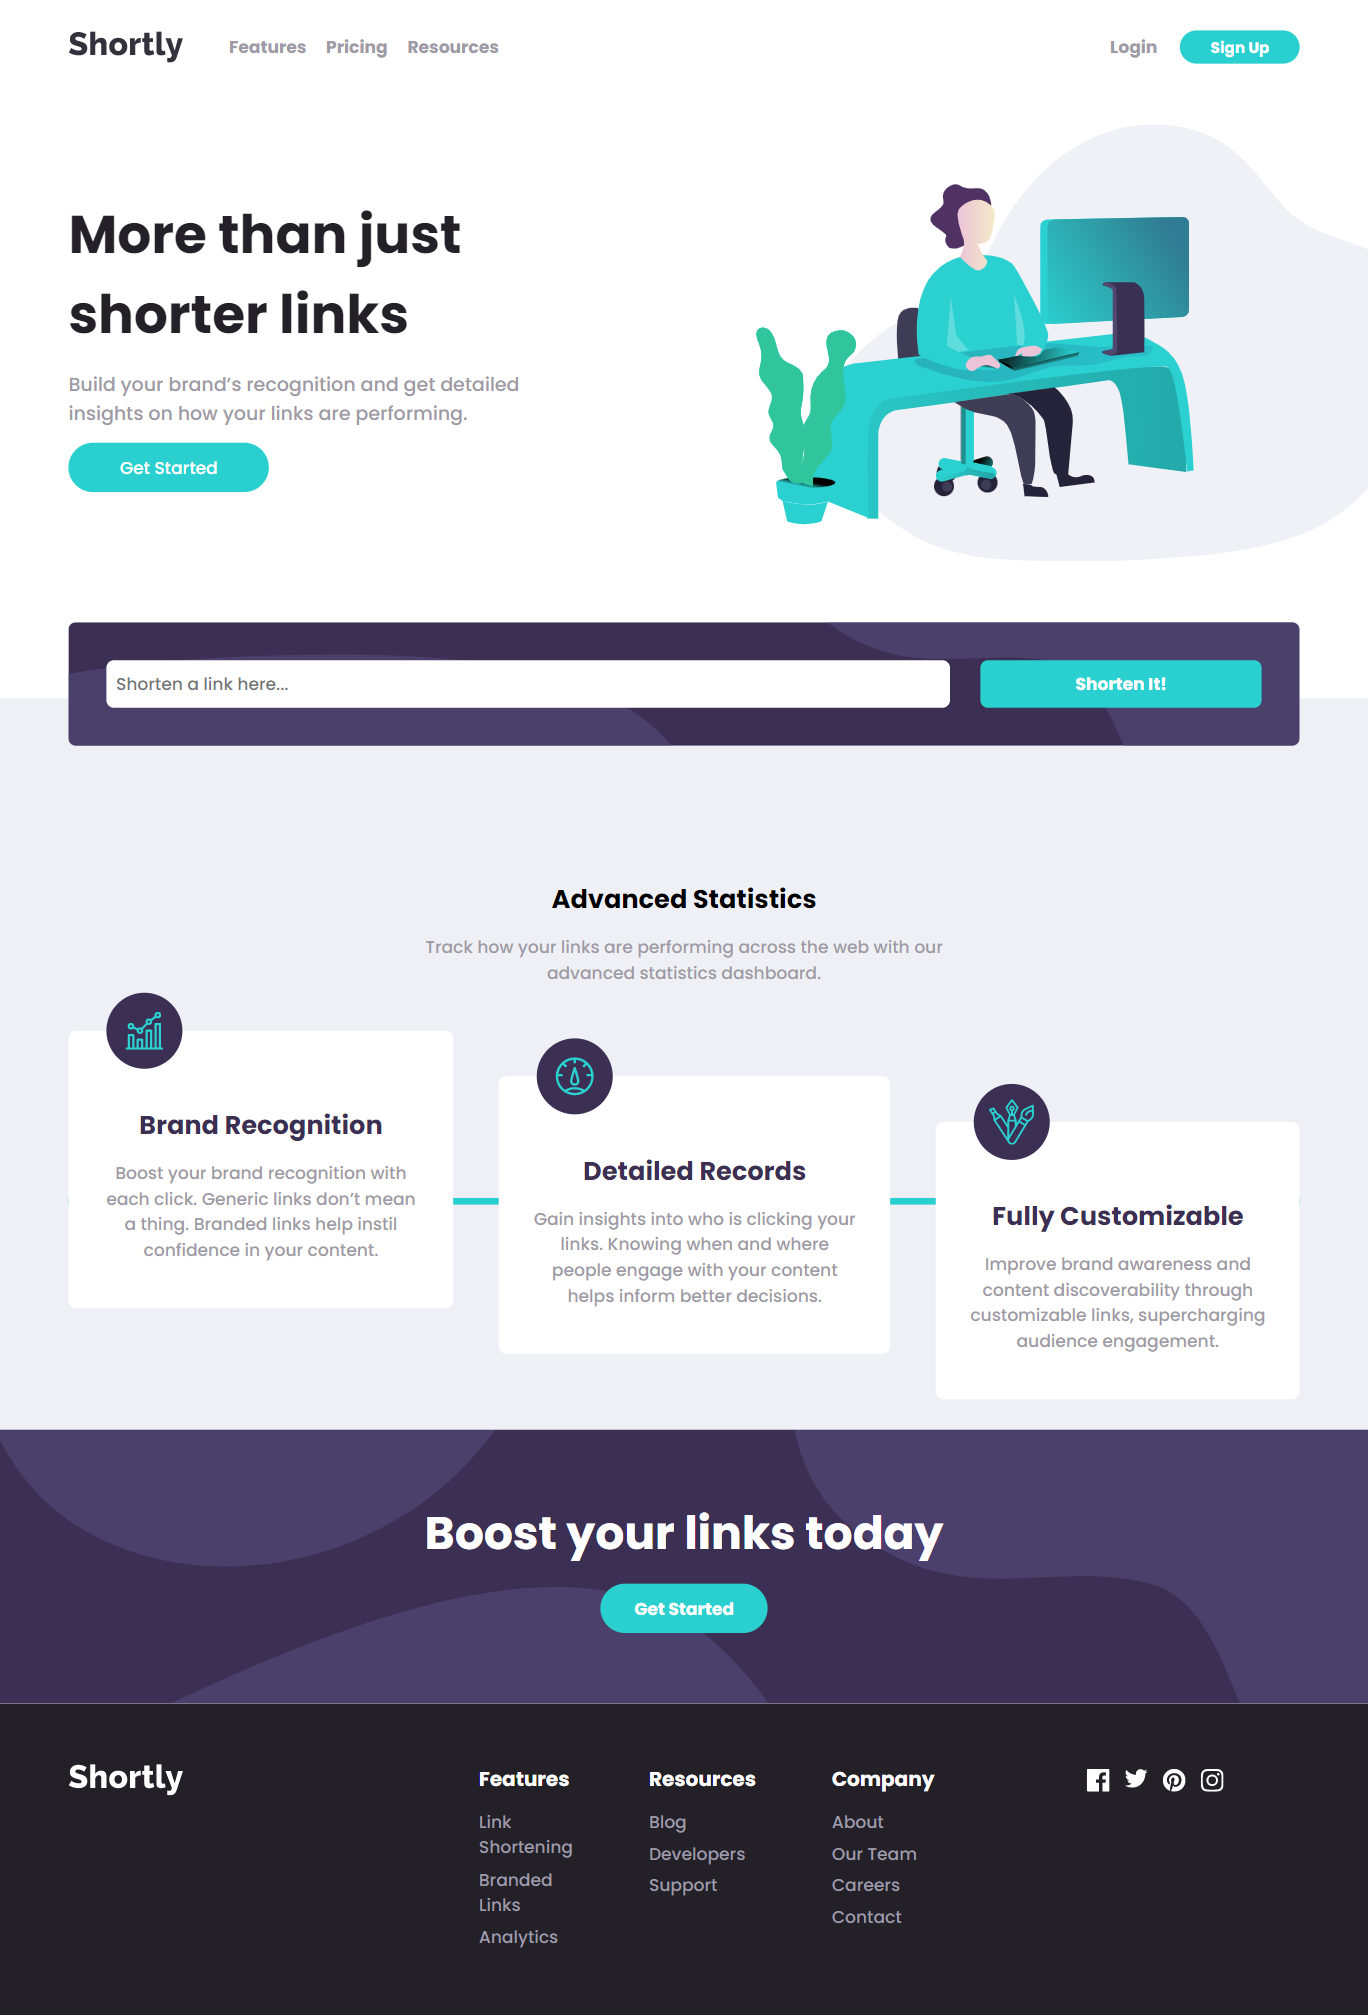
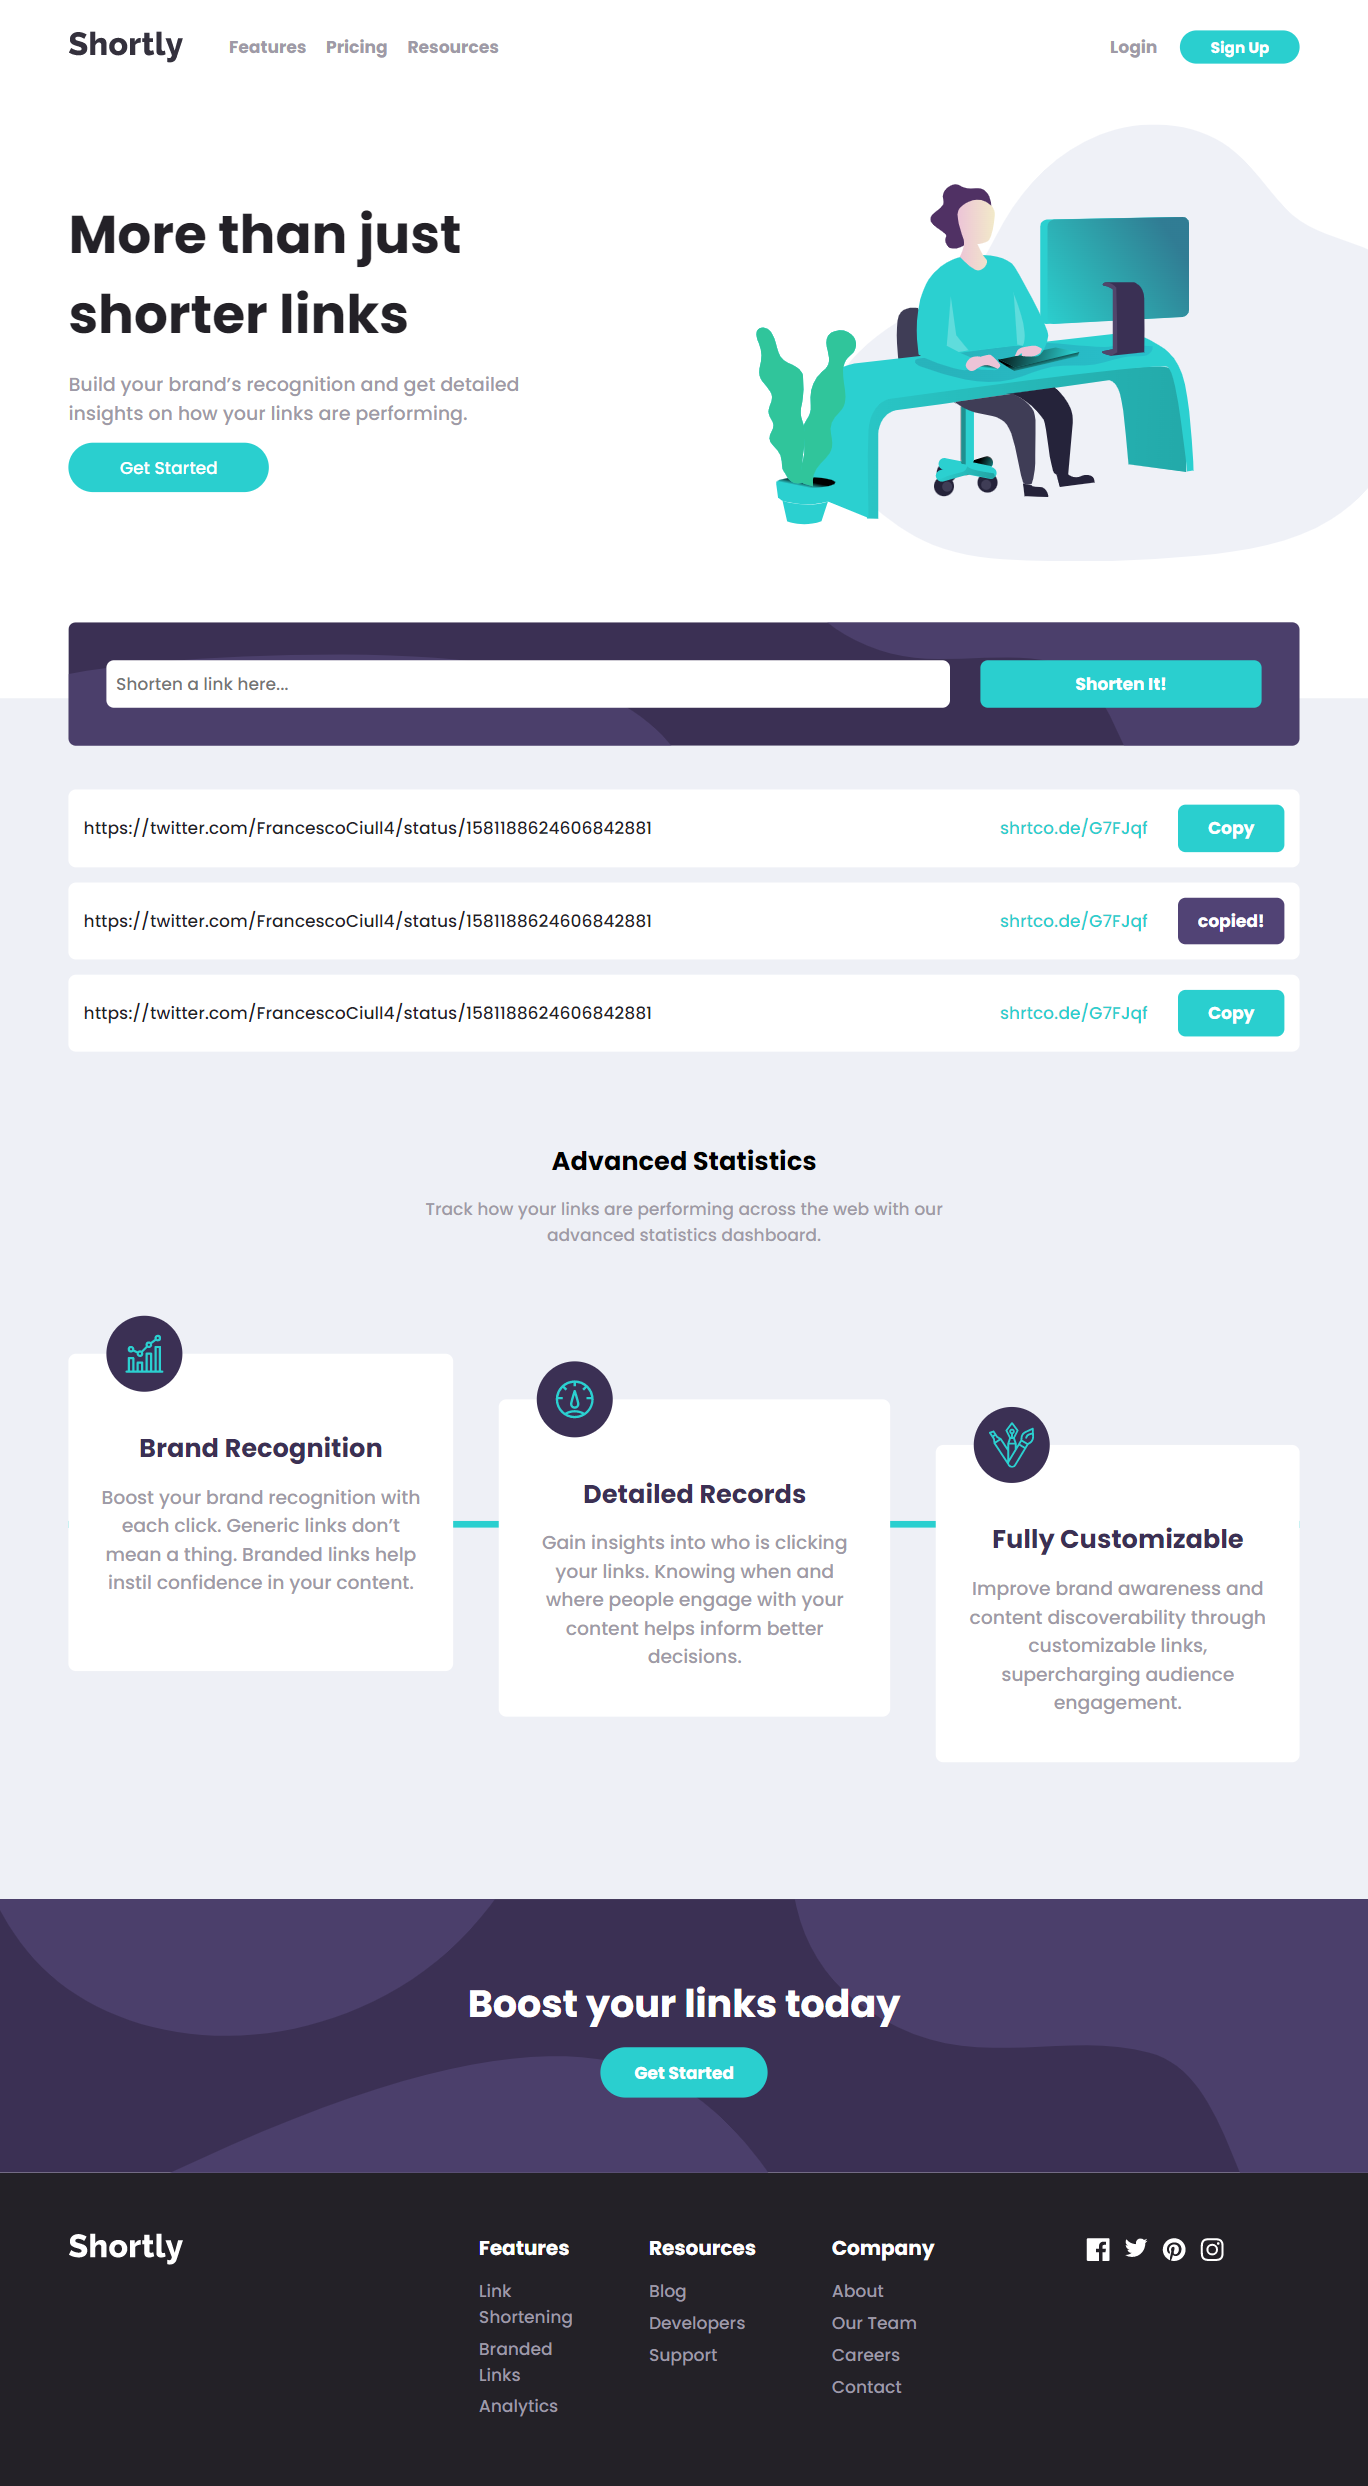
actually Done

diff --git a/sass/_main.scss b/sass/_main.scss
@@ -100,7 +100,7 @@ main {
             .result-copy {
                display: grid;
 
-               button{
+               button {
                   align-self: flex-end;
                }
 
@@ -255,7 +255,7 @@ main {
          .short-results {
             grid-template-columns: 1fr 1fr;
 
-            .short-result{
+            .short-result {
                justify-content: flex-end;
             }
          }
@@ -274,43 +274,51 @@ main {
 @media (min-width:$breakpoint-md) {
    main {
 
-      .short-container {
+      .container {
+         padding-bottom: 6rem;
 
-         .short-results {
-            grid-template-columns: 1fr;
+         .product-title{
+            padding-bottom: 4rem;
+         }
 
-            .short-result {
-               flex-direction: row;
-               justify-content: space-between;
-               align-items: center;
+         .short-container {
 
-               hr {
-                  display: none;
-               }
+            .short-results {
+               grid-template-columns: 1fr;
 
-               button {
-                  width: 2rem;
-               }
-
-               .result-copy {
-                  display: flex;
-                  gap: 2rem;
+               .short-result {
+                  flex-direction: row;
+                  justify-content: space-between;
                   align-items: center;
 
+                  hr {
+                     display: none;
+                  }
 
-                  .copy-btn {
-                     width: 7rem;
-                     margin-top: 0;
+                  button {
+                     width: 2rem;
+                  }
+
+                  .result-copy {
+                     display: flex;
+                     gap: 2rem;
+                     align-items: center;
+
+
+                     .copy-btn {
+                        width: 7rem;
+                        margin-top: 0;
+                     }
                   }
                }
             }
          }
-      }
 
-      .product-get-started {
+         .product-get-started {
 
-         h2 {
-            font-size: 3rem;
+            h2 {
+               font-size: 3rem;
+            }
          }
       }
    }

diff --git a/css/style.css b/css/style.css
@@ -465,30 +465,36 @@ main .product-get-started a:hover {
   }
 }
 @media (min-width: 1024px) {
-  main .short-container .short-results {
+  main .container {
+    padding-bottom: 6rem;
+  }
+  main .container .product-title {
+    padding-bottom: 4rem;
+  }
+  main .container .short-container .short-results {
     grid-template-columns: 1fr;
   }
-  main .short-container .short-results .short-result {
+  main .container .short-container .short-results .short-result {
     flex-direction: row;
     justify-content: space-between;
     align-items: center;
   }
-  main .short-container .short-results .short-result hr {
+  main .container .short-container .short-results .short-result hr {
     display: none;
   }
-  main .short-container .short-results .short-result button {
+  main .container .short-container .short-results .short-result button {
     width: 2rem;
   }
-  main .short-container .short-results .short-result .result-copy {
+  main .container .short-container .short-results .short-result .result-copy {
     display: flex;
     gap: 2rem;
     align-items: center;
   }
-  main .short-container .short-results .short-result .result-copy .copy-btn {
+  main .container .short-container .short-results .short-result .result-copy .copy-btn {
     width: 7rem;
     margin-top: 0;
   }
-  main .product-get-started h2 {
+  main .container .product-get-started h2 {
     font-size: 3rem;
   }
 }

diff --git a/README.md b/README.md
@@ -26,5 +26,5 @@ The desktop design VS My desktop solution<br>
 <div align="center">
 The mobile design VS My mobile solution<br>
 <a href="design/mobile-design" target="_blank"><img src="design/mobile-design.jpg" width="20%" height="20%"/></a>
-<a href="solution-screenshots/mobile.png" target="_blank"><img src="solution-screenshots/mobile.jpg" width="20%" height="20%" align="top"/></a>
+<a href="solution-screenshots/mobile.png" target="_blank"><img src="solution-screenshots/mobile.png" width="20%" height="20%" align="top"/></a>
 </div>
